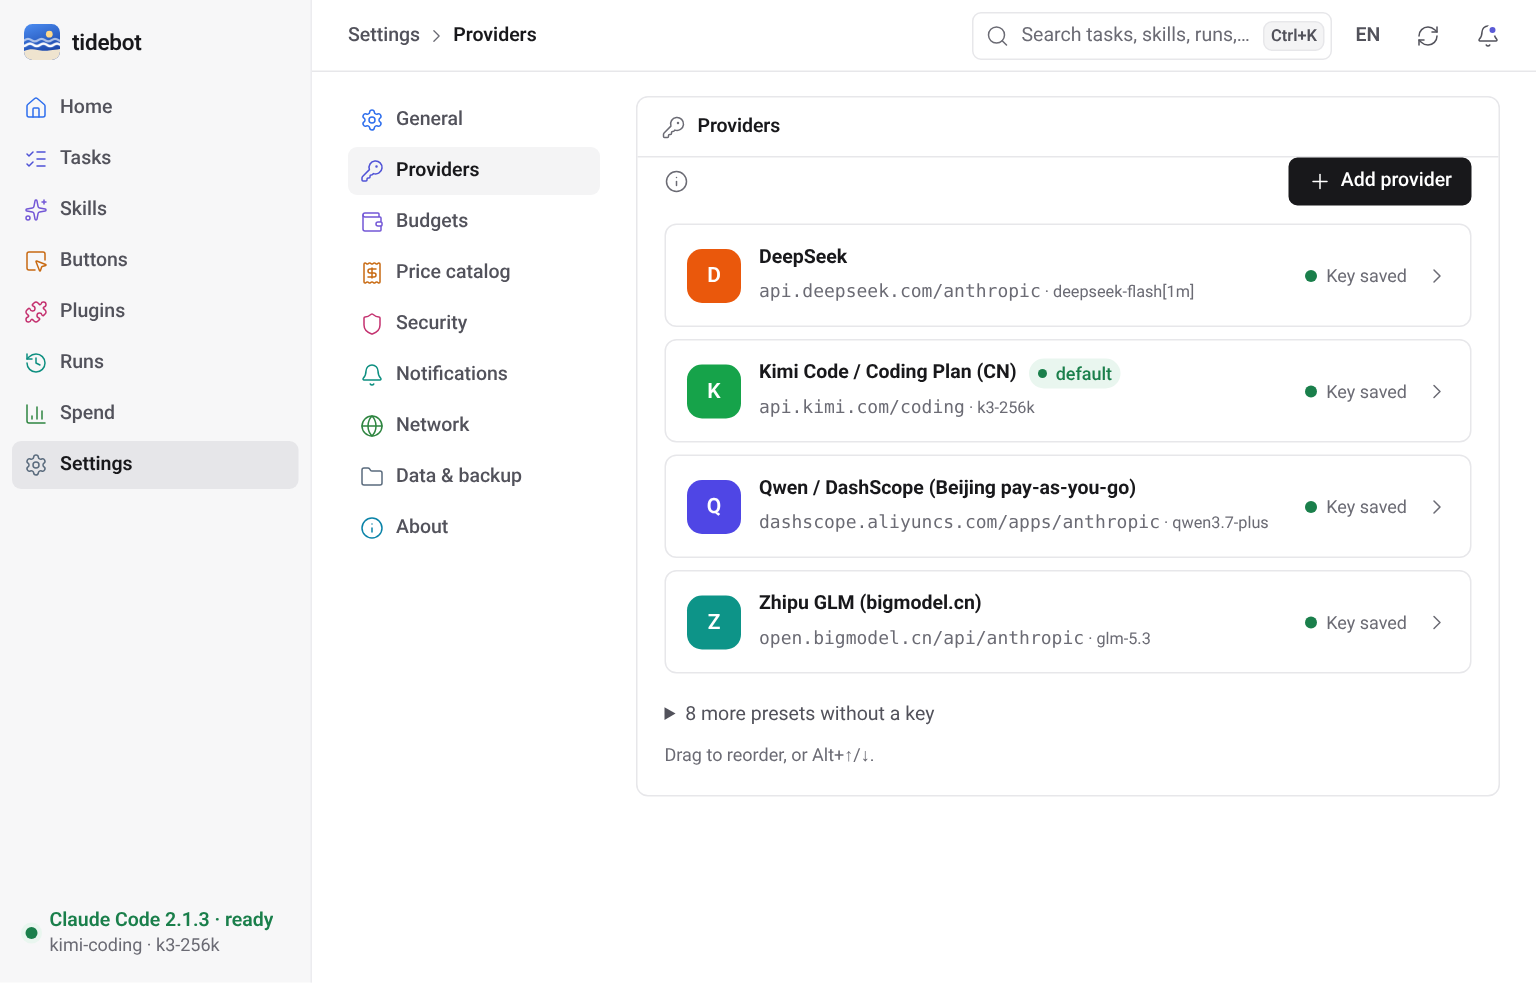
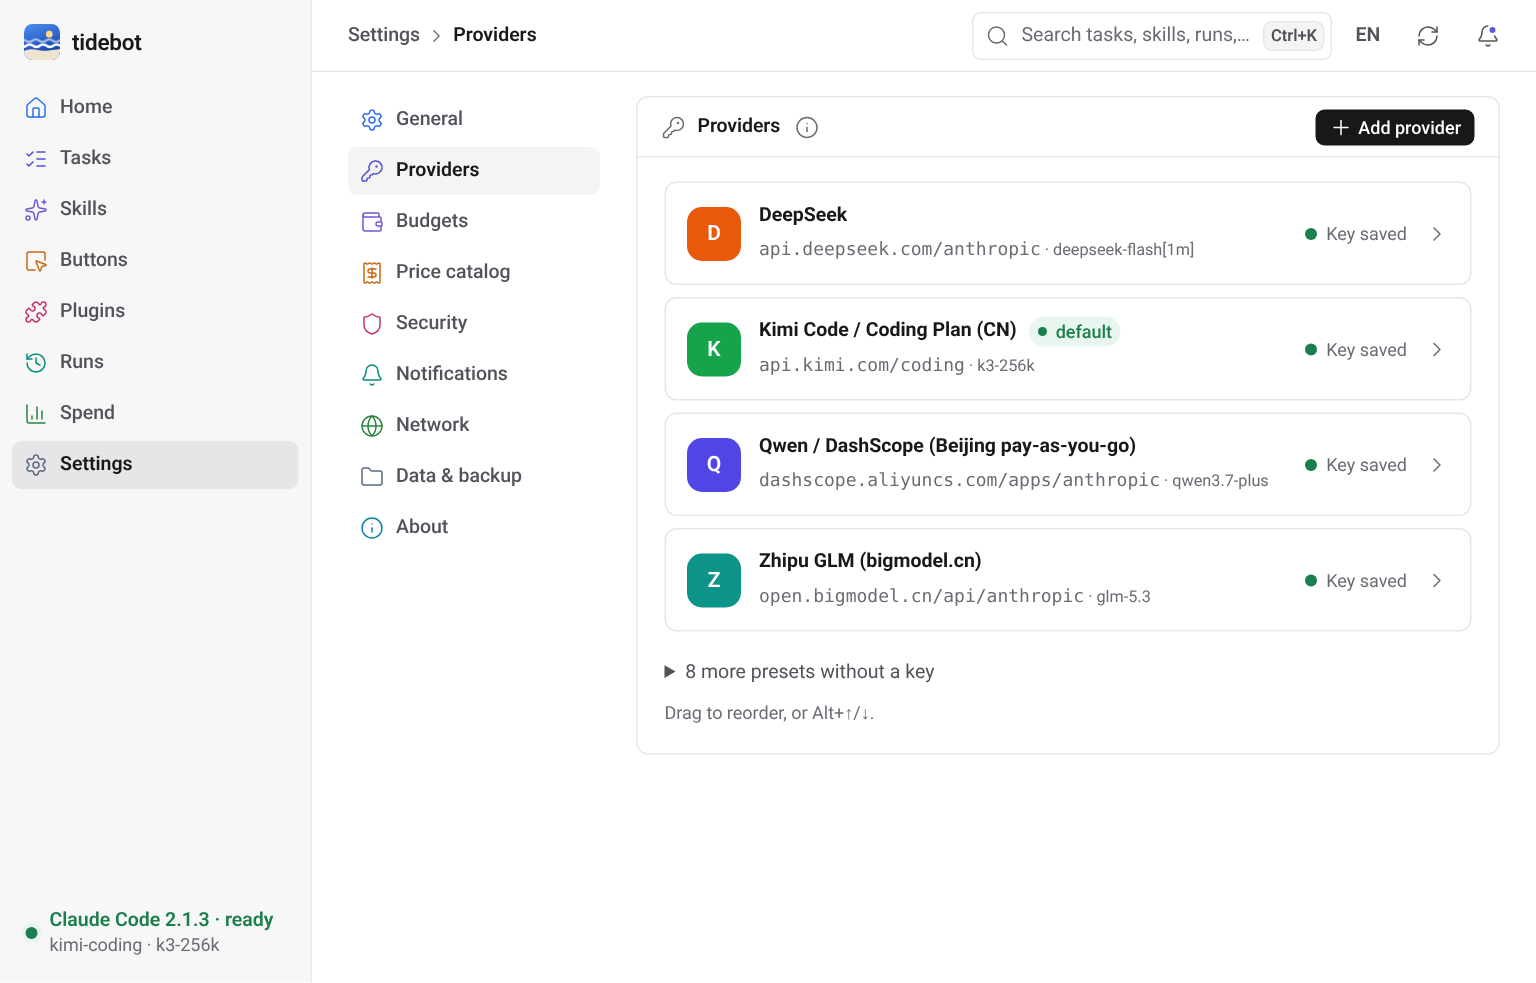
服务商设置：「添加服务商」并入卡片标题行右侧，「Key 只写不读」改为标题旁悬停提示，去掉多余一行；列表与标题间距 16px；修复服务商预设选择框按 Esc 关闭时报错；重拍 README 设置截图

diff --git a/internal/webui/static/app.js b/internal/webui/static/app.js
@@ -3387,8 +3387,7 @@
           '<small class="pv-meta"><code>' + esc((p.base_url || "https://api.anthropic.com").replace(/^https?:\/\//, "")) + "</code>" + (p.model ? " · " + esc(p.model) : "") + "</small></div>" +
           '<span class="pv-key ' + (p.key_set ? "ok" : "") + '"><span class="dot ' + (p.key_set ? "ok" : "") + '"></span>' + esc(T(p.key_set ? "pv.key_ok" : "pv.key_none")) + "</span>" + ic("chev", "sm") + "</li>";
       };
-      box.innerHTML = '<div class="pv-toolbar"><p class="muted">' + tip(T("pv.sub")) + '</p><button class="btn primary" id="pv-add">' + ic("plus", "sm") + esc(T("pv.add")) + "</button></div>" +
-        (shown.length ? '<ul class="pv-cards" id="pv-ul" aria-label="' + esc(T("set.providers")) + '">' + shown.map(card).join("") + "</ul>" : '<p class="muted pv-empty">' + esc(T("pv.none_configured")) + "</p>") +
+      box.innerHTML = (shown.length ? '<ul class="pv-cards" id="pv-ul" aria-label="' + esc(T("set.providers")) + '">' + shown.map(card).join("") + "</ul>" : '<p class="muted pv-empty">' + esc(T("pv.none_configured")) + "</p>") +
         (hidden.length ? '<details class="pv-more"><summary>' + esc(T("pv.more", { n: hidden.length })) + '</summary><ul class="pv-cards">' + hidden.map(card).join("") + "</ul></details>" : "") +
         '<small class="hint">' + esc(T("pv.sort_hint", { k: keyLabel("Alt+↑/↓") })) + "</small>";
       // Re-render, then reopen through the *new* render's opener: the old closure's
@@ -3421,7 +3420,13 @@
         var names = $$(".pv-card", box).map(function (x) { return x.getAttribute("data-pv"); });
         api("/api/providers/order", { method: "POST", body: { names: names } }).then(function () { toast(T("pv.order_saved")); }).catch(fail);
       }
-      $("#pv-add", box).addEventListener("click", function () { presetPicker(presets, function (pr) { provSel = "+new"; openDrawer(function (dw) { providerDetail(dw, null, pr, presetById, again); }); }); });
+      // "Add provider" sits in the card head, outside box: assign (not add) so a re-render
+      // doesn't stack handlers, and honour a click that came before the list loaded.
+      var addBtn = $("#pv-add");
+      if (addBtn) {
+        addBtn.onclick = function () { presetPicker(presets, function (pr) { provSel = "+new"; openDrawer(function (dw) { providerDetail(dw, null, pr, presetById, again); }); }); };
+        if (addBtn._want) { addBtn._want = false; addBtn.onclick(); }
+      }
     });
   }
   // Brand metadata for the "add provider" card wall. cat: official|cn|coding|local; tag: i18n key; b: brand color class.
@@ -3483,7 +3488,8 @@
         if (e.target.closest && e.target.closest(".ap-rail")) return;
         var vis = tiles(), i = vis.findIndex(function (t) { return +t.getAttribute("data-pr") === sel; });
         if (e.key === "Enter" && !(e.target.tagName === "BUTTON" && !e.target.classList.contains("ap-tile"))) { e.preventDefault(); go(); return; }
-        var cols = (getComputedStyle($(".ap-grid", root)).gridTemplateColumns.split(" ").length) || 3;
+        var grid = $(".ap-grid", root); if (!grid) return; // Esc already closed the picker
+        var cols = (getComputedStyle(grid).gridTemplateColumns.split(" ").length) || 3;
         var d = { ArrowRight: 1, ArrowLeft: -1, ArrowDown: cols, ArrowUp: -cols }[e.key];
         if (!d || !vis.length) return;
         if (e.target === q && (e.key === "ArrowLeft" || e.key === "ArrowRight")) return;
@@ -6260,8 +6266,12 @@
           });
         };
       } else if (section === "providers") {
-        body = '<section class="card">' + head + '<div id="pv-box" class="pad-x"><p class="muted">…</p></div></section>';
-        after = function () { providerCards($("#pv-box")).catch(fail); };
+        body = '<section class="card">' + head.replace("</h2></div>", "</h2>" + tip(T("pv.sub")) + '<button type="button" class="btn primary sm card-act" id="pv-add">' + ic("plus", "sm") + esc(T("pv.add")) + "</button></div>") +
+          '<div id="pv-box" class="pad-x"><p class="muted">…</p></div></section>';
+        after = function () {
+          $("#pv-add").onclick = function (e) { e.currentTarget._want = true; };
+          providerCards($("#pv-box")).catch(fail);
+        };
       } else if (section === "budgets") {
         var g = (st.budgets || []).filter(function (x) { return x.scope === "global" && x.period === "day"; })[0] || {};
         var buckets = (st.budgets || []).filter(function (x) { return x.scope === "bucket"; });

diff --git a/internal/webui/static/styles.css b/internal/webui/static/styles.css
@@ -1583,8 +1583,6 @@ input:focus-visible, select:focus-visible, textarea:focus-visible { border-color
 .seg-opt input:focus-visible + span { box-shadow: 0 0 0 2px var(--accent); }
 
 /* providers: single column of cards */
-.pv-toolbar { display: flex; align-items: center; justify-content: space-between; gap: 12px; margin-bottom: 12px; flex-wrap: wrap; }
-.pv-toolbar p { margin: 0; flex: 1; min-width: 200px; }
 .pv-cards { list-style: none; margin: 0; padding: 0; display: flex; flex-direction: column; gap: 8px; }
 .pv-card { display: flex; align-items: center; gap: 12px; padding: 12px 14px; border: 1px solid var(--border); border-radius: var(--radius); background: var(--surface); cursor: pointer; transition: border-color .12s, box-shadow .12s; min-width: 0; }
 .pv-card:hover, .pv-card:focus-visible { border-color: var(--accent); box-shadow: var(--shadow-hover); outline: none; }
@@ -1914,6 +1912,8 @@ body { font-size: var(--fs-md); line-height: 1.5; }
 .seg:has(.seg-opt) { display: grid; grid-auto-flow: column; grid-auto-columns: minmax(0, 1fr); width: 100%; }
 .seg-opt span { padding: 4px 10px; border-radius: 4px; }
 .card-head .seg { margin-left: auto; }
+.card-head .card-act { margin-left: auto; flex: none; }
+#pv-box { padding-top: var(--sp-4); }
 
 /* filter chips → same family as seg */
 .filters { gap: var(--sp-1); }

diff --git a/internal/webui/provider_head_ui_test.go b/internal/webui/provider_head_ui_test.go
@@ -1,0 +1,56 @@
+package webui
+
+import (
+	"strings"
+	"testing"
+)
+
+// TestProviderHeadUI: Settings › Providers keeps "Add provider" and the write-only note in
+// the card head (button right-aligned, note as a hover tip), not in an extra row under it.
+// The button is wired by assignment so re-rendering the list doesn't stack handlers, and a
+// click that lands before the list has loaded (palette "n p") still opens the picker.
+func TestProviderHeadUI(t *testing.T) {
+	jsb, _ := Static.ReadFile("static/app.js")
+	cssb, _ := Static.ReadFile("static/styles.css")
+	js, css := string(jsb), string(cssb)
+	i := strings.Index(js, `section === "providers"`)
+	if i < 0 {
+		t.Fatal("providers section not found")
+	}
+	sec := js[i : i+900]
+	for _, want := range []string{
+		`head.replace("</h2></div>", "</h2>" + tip(T("pv.sub"))`,
+		`class="btn primary sm card-act" id="pv-add"`,
+		`$("#pv-add").onclick = function (e) { e.currentTarget._want = true; }`,
+	} {
+		if !strings.Contains(sec, want) {
+			t.Errorf("providers head: missing %s", want)
+		}
+	}
+	for _, want := range []string{`addBtn.onclick = function ()`, `if (addBtn._want) { addBtn._want = false; addBtn.onclick(); }`} {
+		if !strings.Contains(js, want) {
+			t.Errorf("providerCards: missing %s", want)
+		}
+	}
+	for _, gone := range []string{"pv-toolbar", `$("#pv-add", box)`} {
+		if strings.Contains(js, gone) || strings.Contains(css, gone) {
+			t.Errorf("leftover %s", gone)
+		}
+	}
+	if !strings.Contains(css, ".card-head .card-act { margin-left: auto;") {
+		t.Error("card-act not right-aligned in the card head")
+	}
+	if !strings.Contains(css, "#pv-box { padding-top: var(--sp-4); }") {
+		t.Error("provider list should start 16px below the head divider")
+	}
+}
+
+// The preset picker's arrow-key handler must not touch the grid after Esc closed it
+// (getComputedStyle(null) threw a TypeError on every Esc).
+func TestPresetPickerEscNoError(t *testing.T) {
+	jsb, _ := Static.ReadFile("static/app.js")
+	js := string(jsb)
+	if !strings.Contains(js, `var grid = $(".ap-grid", root); if (!grid) return;`) || strings.Contains(js, `getComputedStyle($(".ap-grid", root))`) {
+		t.Fatal("preset picker: grid not guarded after close")
+	}
+}
